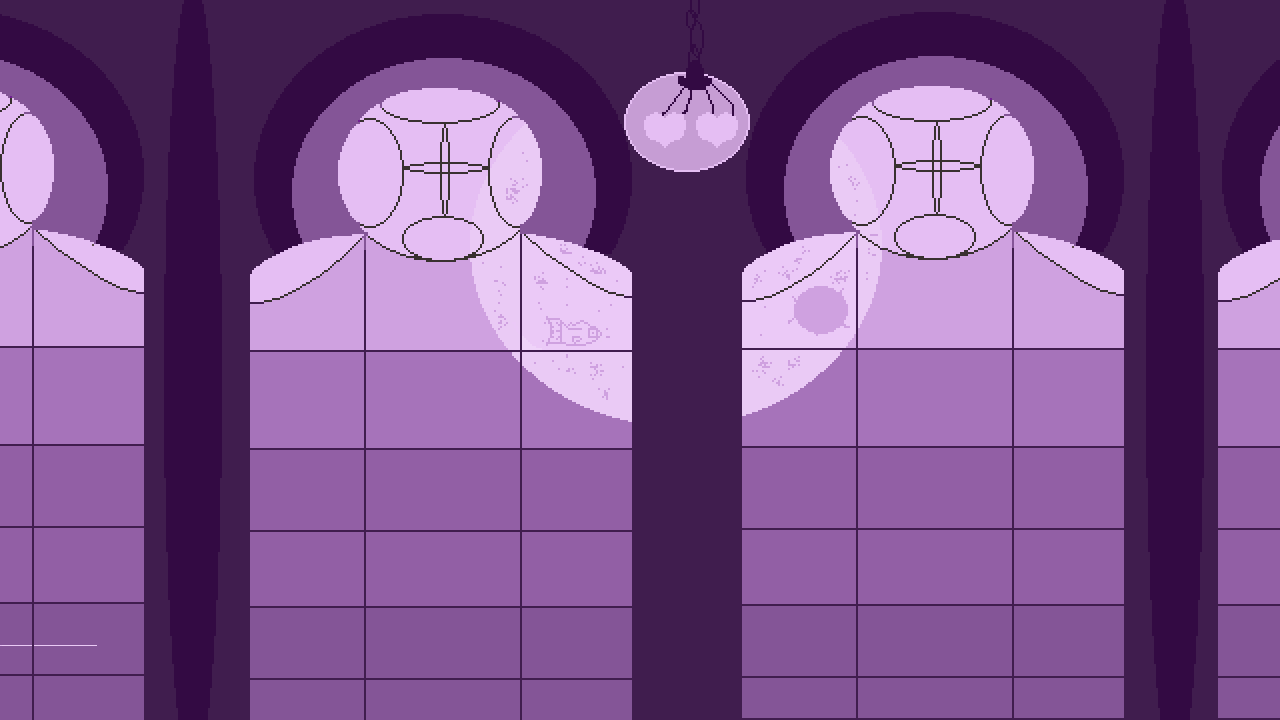
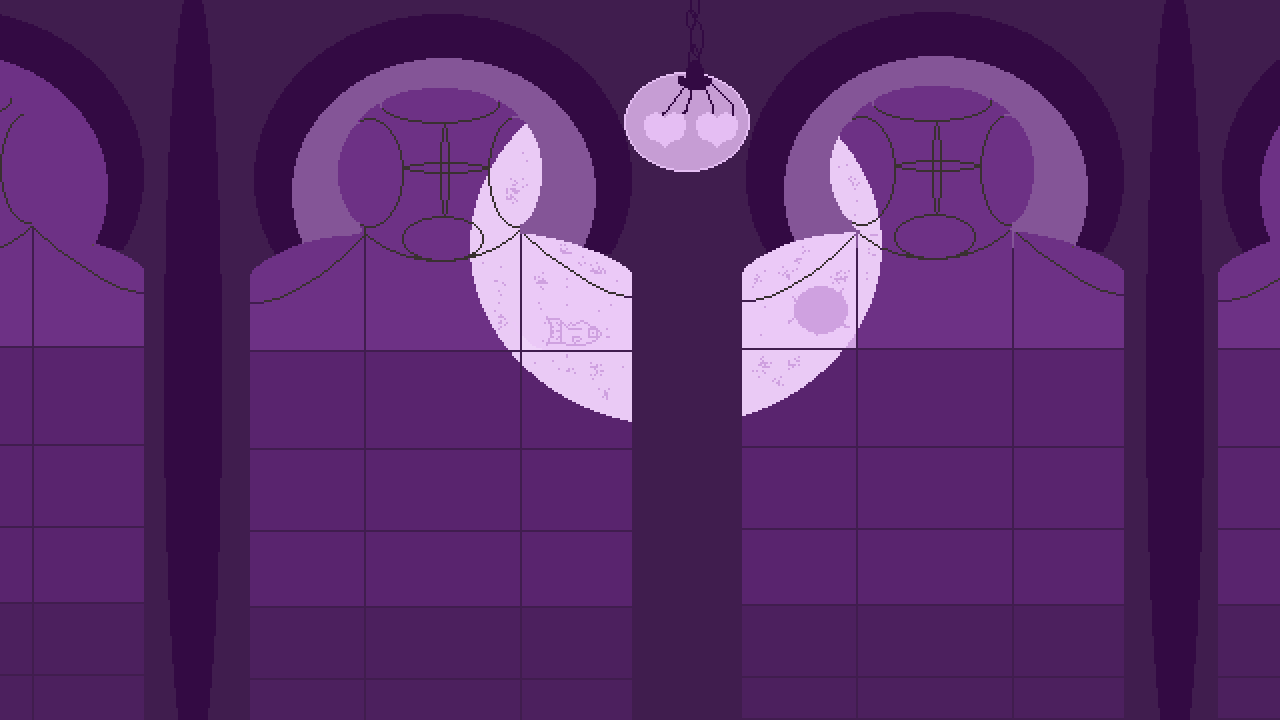
ステージ１リソース追加

diff --git a/main.cpp b/main.cpp
@@ -115,19 +115,19 @@ struct Boss {
 	int hp;
 	int maxHp;
 	// 現在のブレイクゲージ
-	int breakGauge;    
+	int breakGauge;
 	// 最大ブレイクゲージ
-	int maxBreakGauge; 
+	int maxBreakGauge;
 	// ブレイク状態か
-	bool isBroken;     
+	bool isBroken;
 	// ブレイク残り時間
-	int breakTimer;    
+	int breakTimer;
 	int state;
 	int timer;
 	int dir;
 	int flash;
 	// 0:スナイパー, 1:クラッシャー, 2:ウィザード
-	int type; 
+	int type;
 	//ステージ１のボス用変数
 	bool isRareMeteor; //今回のメテオ攻撃がレアか
 	int hitCount;      //ステージ1の吹き飛ばしカウンター用
@@ -644,7 +644,9 @@ int WINAPI WinMain(_In_ HINSTANCE, _In_opt_ HINSTANCE, _In_ LPSTR, _In_ int) {
 	//足場のテクスチャ
 	int scaffoldTexture = Novice::LoadTexture("./Resources/images/scaffold.png");
 	//背景のテクスチャ
-	int backgroundTexture = Novice::LoadTexture("./Resources/images/background.png");
+	int backGroundTexture = Novice::LoadTexture("./Resources/images/background.png");
+	//背景の地面テクスチャ
+	int groundTexture = Novice::LoadTexture("./Resources/images/ground.png");
 	//コウモリのテクスチャ
 	int batTexture = Novice::LoadTexture("./Resources/images/bat.png");
 	//ステージ１のエネミーのアニメーション用変数
@@ -1971,17 +1973,39 @@ int WINAPI WinMain(_In_ HINSTANCE, _In_opt_ HINSTANCE, _In_ LPSTR, _In_ int) {
 
 		Novice::DrawBox(0, 0, kScreenW, kScreenH, 0.0f, 0x1B1F3BFF, kFillModeSolid);
 
-		if (scene == kPlay && boss.type == 2 && boss.timeStopTimer > 0) {
-			Novice::DrawBox(0, 0, kScreenW, kScreenH, 0.0f, 0x0A0518CC, kFillModeSolid);
+		if ((scene == kPlay || scene == kGameOver || scene == kVictory) && currentStage == 0) {
+			// ステージ1の背景画像
+			Novice::DrawSprite(
+				gShakeX,
+				gShakeY,
+				backGroundTexture,
+				1.0f,
+				1.0f,
+				0.0f,
+				0xFFFFFFFF
+			);
+		}
+		else {
+			Novice::DrawBox(0, 0, kScreenW, kScreenH, 0.0f, 0x1B1F3BFF, kFillModeSolid);
 		}
 
 		for (int i = 0; i < activePlatformNum; i++) {
 			float h = (i == 0) ? (kScreenH - platforms[i].y) : 20.0f;
 
-			if (currentStage == 0 && i > 0)
-
-			{
-				//ステージ１の足場テクスチャ描画
+			if (currentStage == 0 && i == 0) {
+				// ステージ1の地面テクスチャ描画（1280x80想定）
+				Novice::DrawSprite(
+					static_cast<int>(platforms[i].x) + gShakeX,
+					static_cast<int>(platforms[i].y) + gShakeY,
+					groundTexture,
+					1.0f,
+					1.0f,
+					0.0f,
+					0xFFFFFFFF
+				);
+			}
+			else if (currentStage == 0 && i > 0) {
+				// ステージ1の足場テクスチャ描画
 				Novice::DrawSprite(
 					static_cast<int>(platforms[i].x) + gShakeX,
 					static_cast<int>(platforms[i].y) + gShakeY,
